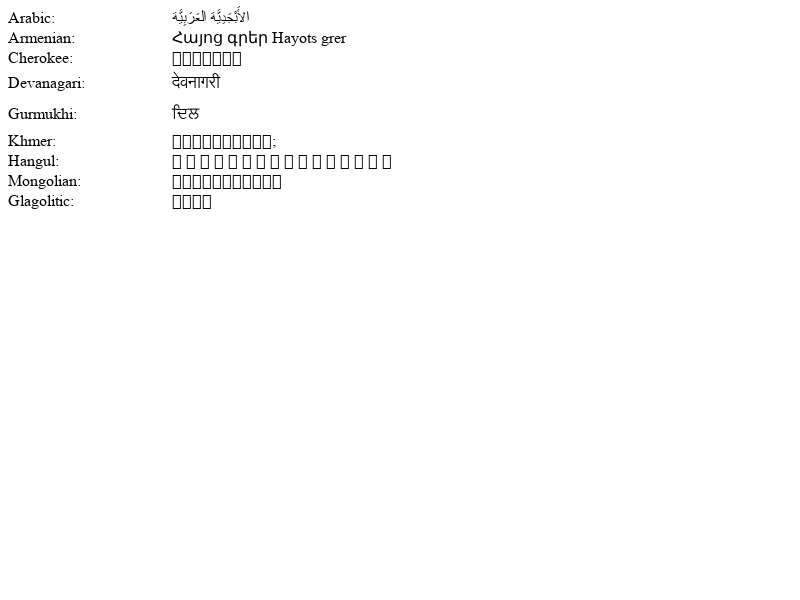
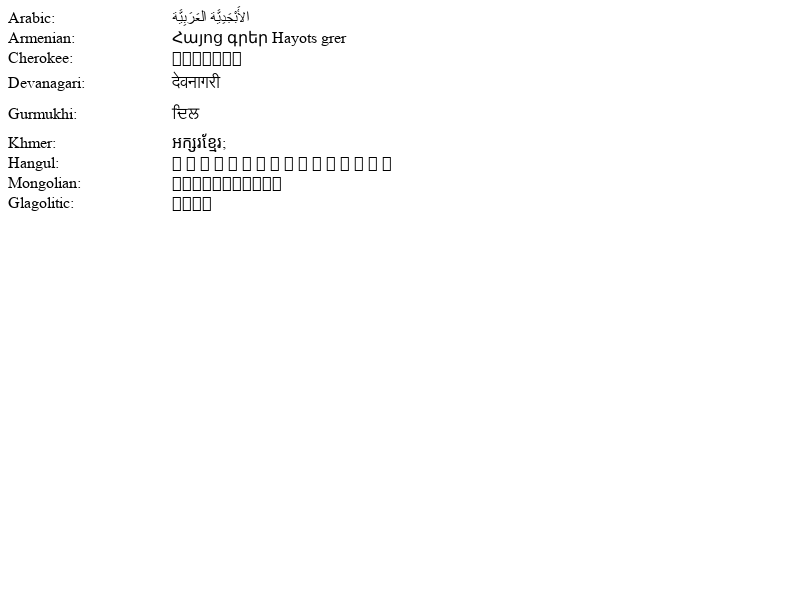
Add Noto Sans Khmer to GCS synced linux fonts
This should fix another set of layout tests and make us less dependent
on distribution specific font packages. Add a font usage line in
languages-emoji-rare-glyphs.js to make sure that Noto Sans Khmer is
used.

Bug: 772116
Commit-Queue: Dominik Röttsches <drott@chromium.org>
Cr-Original-Commit-Position: refs/heads/master@{#519621}
Cr-Mirrored-From: https://chromium.googlesource.com/chromium/src
Cr-Mirrored-Commit: 542c9ca65d335166b48ea40d737c1a53b54c5b55

Changed region(s): [[0.2188, 0.21, 0.3438, 0.36], [0.0, 0.21, 0.0938, 0.36]]

diff --git a/WebKit/LayoutTests/inspector-protocol/layout-fonts/languages-emoji-rare-glyphs.js b/WebKit/LayoutTests/inspector-protocol/layout-fonts/languages-emoji-rare-glyphs.js
@@ -21,6 +21,7 @@
             <div lang="ar" id="arabic_pangram">نصٌّ حكيمٌ لهُ سِرٌّ قاطِعٌ وَذُو شَأنٍ عَظيمٍ مكتوبٌ على ثوبٍ أخضرَ ومُغلفٌ بجلدٍ أزرق</div>
             <div id="emoji">🌱🌲🌳🌴🌵🌷🌸🌹🌺🌻🌼💐🌾🌿🍀🍁🍂🍃🍄🌰</div>
             <div id="egyptian_hieroglyphs">𓀀𓀁𓀂𓀃𓀄𓀅𓀆𓀇𓀈𓀉𓀊𓀋𓀌𓀍𓀎𓀏</div>
+            <div lang="km" id="khmer">ខ្ញុំអាចញុំកញ្ចក់បាន ដោយគ្មានបញ្ហារ</div>
         </div>
     </body>
     </html>
